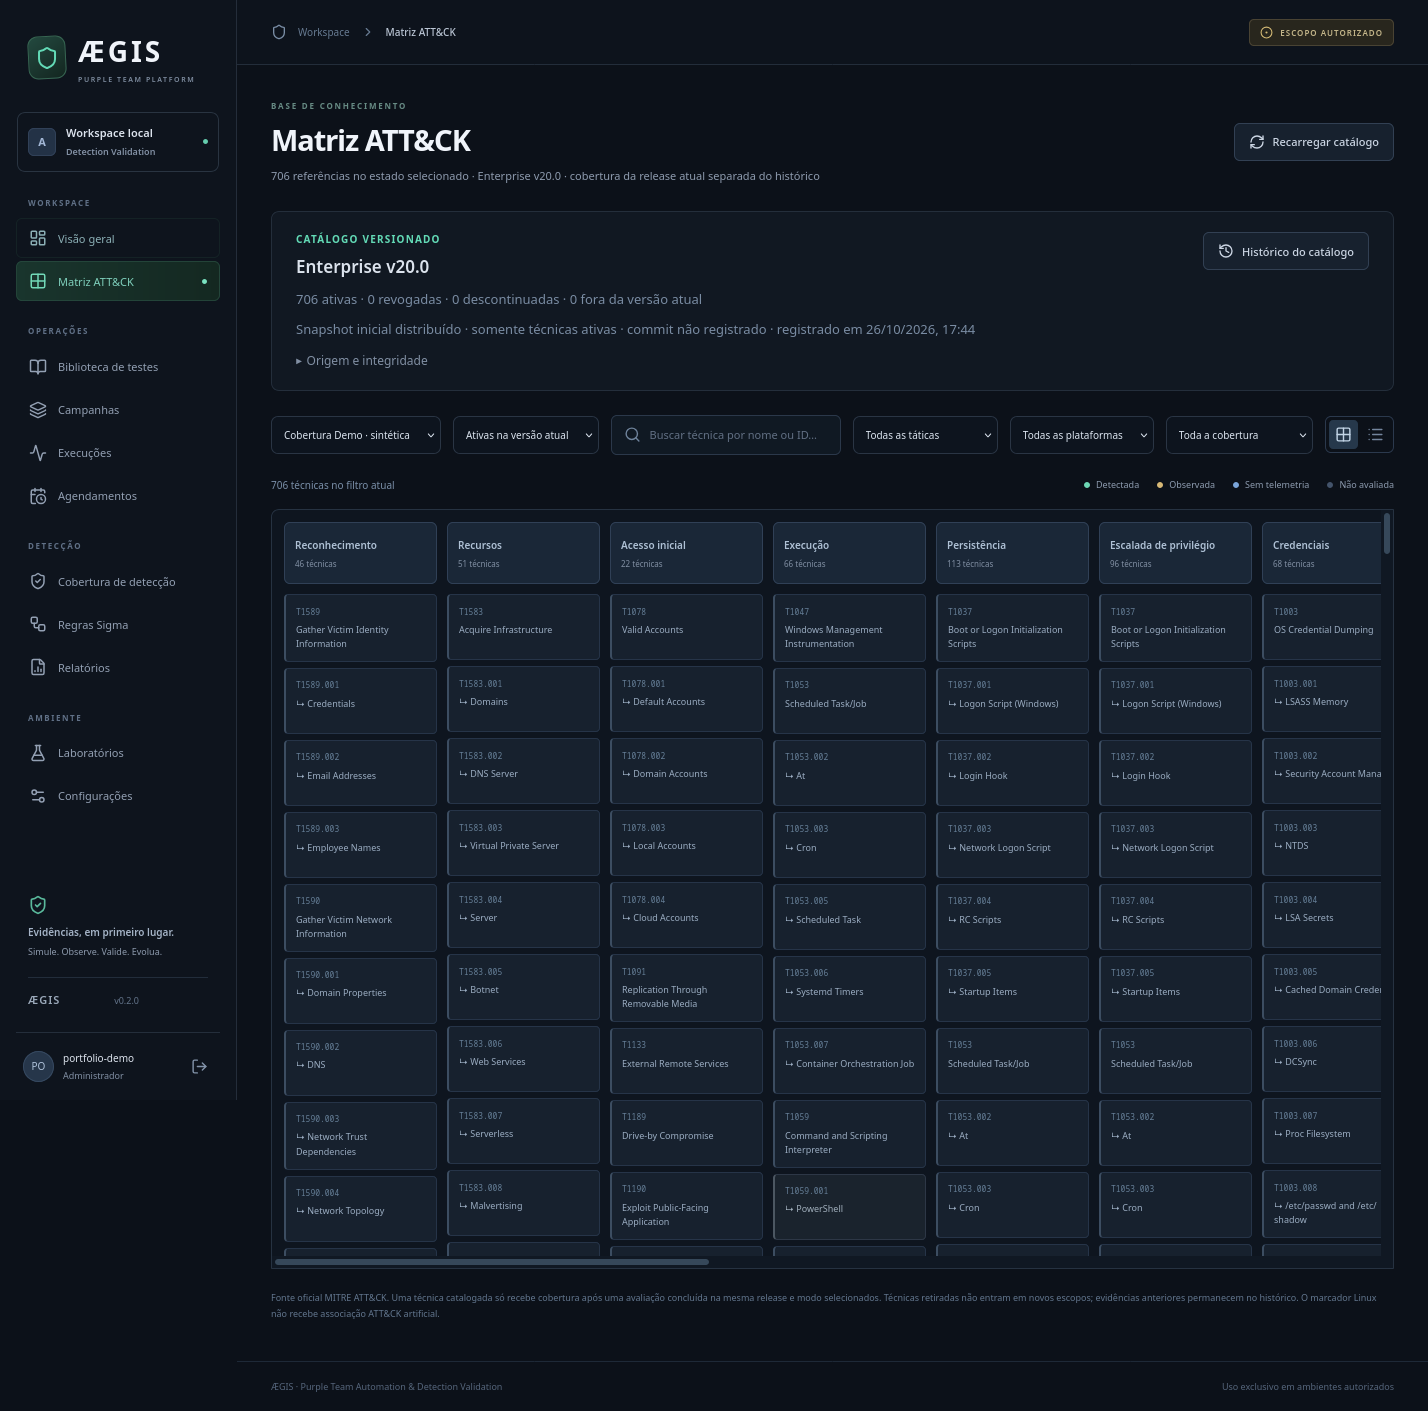
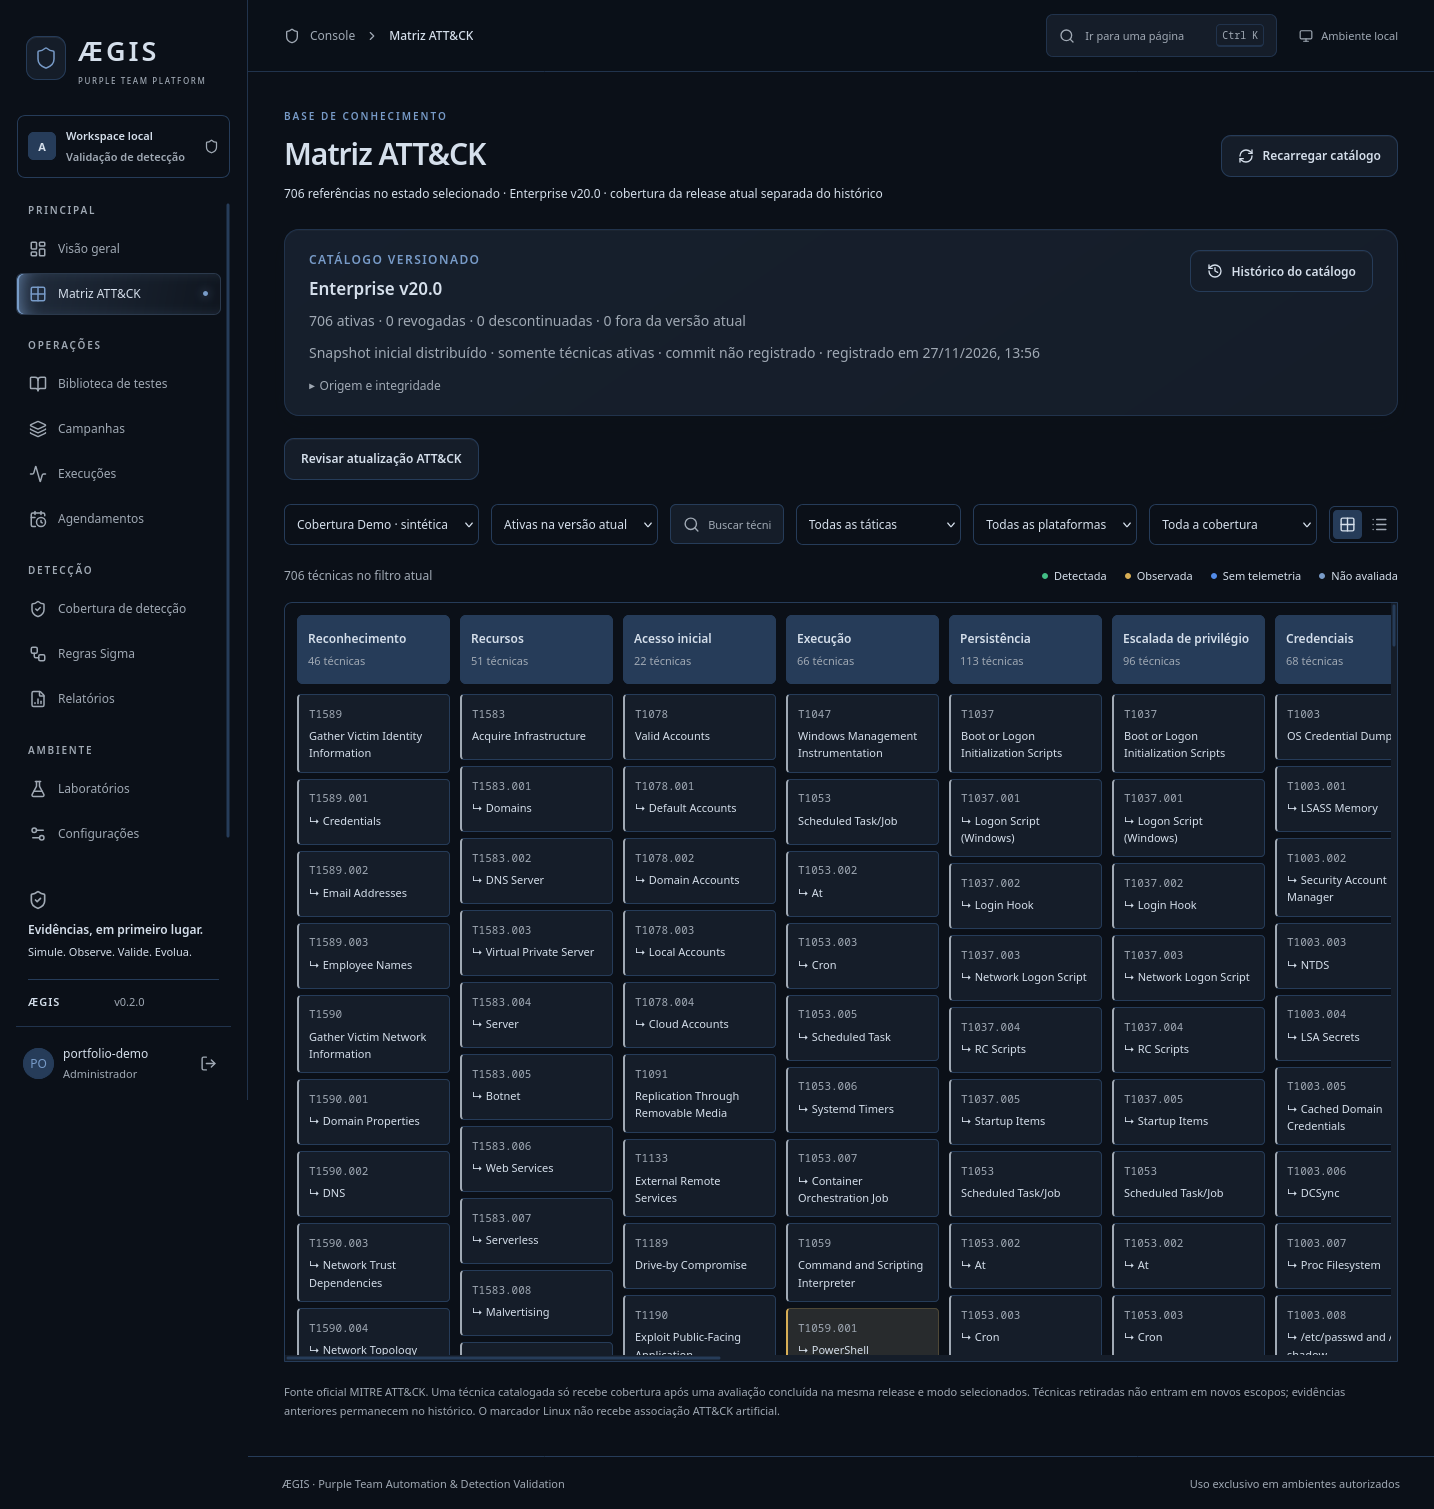
docs(ui): refresh screenshots for the current AEGIS interface
Refresh 23 current captures and the README gallery from the real Firefox Demo flow. Preserve all 16 previous images and their provenance in the archive; make capture positioning and transient notifications reliable.

Validation: 186 React tests, full Demo E2E with 5 runs and 20 synthetic tests, 5 PDF exports, 22 browser screenshots and zero JavaScript errors; staged and release checks passed.

Refs #144

diff --git a/docs/images/README.md b/docs/images/README.md
@@ -1,57 +1,87 @@
-# Galeria de capturas reais
+# Galeria da interface AEGIS
 
-Capturas da interface executável, sem mockups. Os nomes abaixo apontam para os
-arquivos originais versionados. Dados Demo vêm da API/worker/PostgreSQL reais no
-schema E2E descartável; eventos/alertas desse adaptador são **sintéticos**. Nenhuma
-imagem de Demo prova uma detecção externa.
+Capturas de 27/11/2026 com a paleta AEGIS, superfícies iluminadas, modais suaves e
+login animado. São screenshots da aplicação executável em Firefox, com API,
+worker, PostgreSQL e Redis em schema E2E descartável. Os dados e evidências do
+Demo são **sintéticos**. As imagens não contêm credenciais e não demonstram
+uma detecção externa.
 
-As 13 capturas Demo foram geradas por `scripts/e2e.py` e `apps/web/e2e.mjs` no fluxo
-Firefox de 2026-10-26: 4 runs / 16 testes sintéticos, zero erros JavaScript e viewport de 390 px
-sem overflow, incluindo o modal de transformação. A rodada atual acrescentou a
-prévia oficial de rename e preservou o relatório histórico. São 14 arquivos com a
-captura Linux anterior; nenhuma nova execução real de laboratório. A primeira
-página PDF acrescenta uma captura, totalizando15arquivos; foi atualizada em
-2026-11-09 com o resumo executivo e é rasterização de um relatório realmente
-gerado/baixado no E2E Demo, com evidências sintéticas.
-Relatórios automáticos acrescenta a captura de09/11/fonte0609ad2, total16arquivos:
-duas ocorrências aprovadas, snapshot inicial/comparativo e downloads reais, sem
-novo ensaio Linux/Wazuh. O E2E dessa extensão confirmou5runs/20testes sintéticos.
-[Política e limites da prévia](../integrations/sigma.md#prévia-de-transformação-de-campos).
+A fonte da aplicação é `606879f`, incluindo o visual de `24f87ce` e `43c5a15`.
+As capturas são reproduzidas por [e2e.py](../../scripts/e2e.py) e
+[e2e.mjs](../../apps/web/e2e.mjs). O fluxo verifica 5 runs e 20 testes sintéticos,
+5 exportações PDF, 2 relatórios automáticos e zero erros JavaScript. As 22 capturas de
+Firefox usam 1440 px no desktop e 390 px no móvel. A primeira página de um PDF
+real exportado completa o conjunto atual com 23 imagens.
+
+O [guia do frontend](../development/frontend-design.md) descreve as interações e
+a preferência de movimento reduzido. Uma imagem estática mostra um instante da
+animação: os anéis do login giram, os blocos flutuam e os cards reagem ao mouse
+na aplicação em execução.
+
+## Identidade e interação
+
+| Captura | Conteúdo |
+| --- | --- |
+| [Login](login.png) | Formulário vazio e composição decorativa animada, antes de digitar credenciais |
+| [Visão geral](overview.png) | Indicadores, histórico e distribuição dos resultados Demo |
+| [Brilho no card](overview-hover.png) | Iluminação acompanhando o cursor e elevação do card |
+| [Modal de navegação](navigation-modal.png) | Busca de páginas, cantos suaves e superfície com profundidade |
+| [Mobile](mobile.png) | Visão geral em 390 px, com dados do mesmo ciclo sintético |
+
+![Tela de acesso AEGIS com composição de órbitas](login.png)
+
+![Card iluminado pelo cursor na visão geral](overview-hover.png)
+
+![Modal de navegação com bordas suaves](navigation-modal.png)
+
+## Operações e evidências
 
 | Captura | Conteúdo e origem |
-|---|---|
-| [Overview](overview.png) | Indicadores Demo, denominadores e histórico da API |
+| --- | --- |
 | [Execução](execution.png) | Classificações sintéticas e evidências inspecionáveis |
+| [Recomendações](recommendations.png) | Análise vinculada a fatos e evidências da execução |
+| [Recomendações no celular](recommendations-mobile.png) | Mesmo percurso em 390 px |
 | [Cobertura](coverage.png) | Filtros de período/release e exportação do recorte |
-| [ATT&CK](attack.png) | Matriz de catálogo oficial, sem inferir técnicas testadas |
+| [ATT&CK](attack.png) | Matriz do catálogo oficial; catalogado não significa testado |
 | [Catálogo](attack-catalog.png) | Proveniência e histórico do snapshot inicial |
+| [Metadados Atomic](atomic-metadata.png) | Importação e revisão offline de metadados, sem execução Atomic |
+| [Atomic no celular](atomic-metadata-mobile.png) | Inspeção dos mesmos metadados em 390 px |
 | [Agendamentos](schedules.png) | Plano Demo aprovado e ocorrência emitida pelo worker |
-| [Revisões](rule-test-links.png) | Associação de versão Sigma/teste; não é implantação |
-| [Comparação](scope-comparison.png) | Diferenças de versões e vínculos registrados nos scopes |
+| [Relatórios automáticos](scheduled-reports.png) | Duas ocorrências aprovadas, snapshot inicial e comparação |
+| [Vínculos de regras](rule-test-links.png) | Associação de versão Sigma/teste; não é implantação |
+| [Comparação](scope-comparison.png) | Diferenças de versões e vínculos registrados nos escopos |
 | [Análise Sigma](sigma-analysis.png) | Achado estático parcial em regra demonstrativa |
-| [Preparação Sigma](sigma-readiness.png) | Campos candidatos com conversão explicitamente bloqueada |
-| [Prévia de campos](sigma-mapping.png) | Transformação oficial real em memória, antes/depois normalizados; nenhuma consulta SIEM gerada |
-| [Wazuh desconectado](wazuh-preparation.png) | Demo padrão sem conector; não representa o banco do ensaio Wazuh |
-| [Mobile](mobile.png) | Interface Demo em viewport móvel; screenshot pode excluir a barra de rolagem |
-| [Linux encerrado](linux-execution.png) | Captura histórica de 2026-10-21: campanha real autorizada, INCONCLUSIVE sem SIEM, recibo separado de detecção |
-| [Relatório PDF](report-pdf.png) | Primeira página do PDF de execução do E2E Firefox2026-11-09, fonte26605ff; 1 detecção em3testes válidos, com1inconclusivo fora da taxa. Documento completo13páginas/67.550bytes e aviso sintético em todas |
-| [Relatórios automáticos](scheduled-reports.png) | Plano Demo com duas ocorrências a60s, relatório inicial e comparação por grant; E2E Firefox09/11/fonte0609ad2, quatro PDFs e zeroerrosJS |
+| [Preparação Sigma](sigma-readiness.png) | Campos candidatos e condições da conversão |
+| [Prévia de campos](sigma-mapping.png) | Transformação oficial em memória, antes/depois normalizados |
+| [Consulta offline](sigma-query.png) | Consulta e procedência geradas offline; nenhuma consulta SIEM |
+| [Wazuh desconectado](wazuh-preparation.png) | Demo sem conector; não representa um ensaio Wazuh |
+| [Relatório PDF](report-pdf.png) | Primeira página do PDF atual de uma execução com 4 simulações; 1 detectado em 3 testes válidos, 1 inconclusivo fora da taxa |
 
-A imagem Linux foi capturada consultando o histórico após o único ensaio integrado,
-sem repetir o marcador. Ver [escopo e encerramento](../../labs/linux/README.md).
-O [ensaio Wazuh](../evidence/wazuh-2026-10-22/README.md) possui eventos/evidências
-registrados e não ganhou uma screenshot fictícia ou um novo efeito para ilustração.
+![Resultados de uma campanha sintética na interface atual](execution.png)
 
-![Dashboard Demo real](overview.png)
+![Filtros de cobertura com o visual atual](coverage.png)
 
-![Filtros de cobertura reais](coverage.png)
+## Capturas históricas
 
-![Prévia real de rename de campos, com conversão SIEM bloqueada](sigma-mapping.png)
+As 16 imagens anteriores foram preservadas byte a byte no
+[arquivo anterior à revisão visual](archive/pre-2026-11-27/README.md), junto à
+sua descrição original e respectivas datas. Isso inclui o PDF de 09/11 e a
+[campanha Linux encerrada de 21/10](archive/pre-2026-11-27/linux-execution.png).
+A imagem Linux também permanece no caminho histórico `linux-execution.png`.
+Não houve nova execução ou captura nativa Linux/Wazuh nesta revisão visual.
 
-![Histórico da campanha Linux encerrada](linux-execution.png)
+## Reprodução e verificação
 
-`make release-check` confere presença no índice Git e cabeçalho/dimensões PNG.
-Essa checagem não verifica pixels, procedência ou ausência de informação sensível;
-revisão humana e evidências do fluxo continuam necessárias. Não exponha capturas
-com dados empresariais ou segredos. Para regenerar Demo use `make e2e`; ensaios
-reais Linux/Wazuh exigem autorização específica própria.
+`make e2e` usa schema próprio e atualiza as capturas da interface; o diretório pode
+ser alterado com `AEGIS_E2E_SCREENSHOTS`. O fluxo fotografa o login antes do
+preenchimento, registra o hover e o modal e mantém todos os testes anteriores.
+Antes de fotografar páginas longas, o helper aguarda as requisições pendentes,
+retorna ao topo e sincroniza a pintura do navegador, preservando o posicionamento
+do menu e do cabeçalho fixos. Notificações temporárias são dispensadas sem manter
+referências a elementos que podem desaparecer durante a captura.
+O PDF é rasterizado a partir do arquivo realmente exportado pelo E2E; ele tem
+formatação própria, independente do CSS da aplicação.
+
+`make release-check` confere os links locais e os cabeçalhos/dimensões PNG do
+índice Git. Essa checagem não substitui inspeção visual ou comprovação da origem.
+Credenciais, logs e PDFs de teste permanecem em `.local`, fora do repositório.

diff --git a/docs/images/archive/pre-2026-11-27/README.md b/docs/images/archive/pre-2026-11-27/README.md
@@ -1,0 +1,57 @@
+# Galeria de capturas reais
+
+Capturas da interface executável, sem mockups. Os nomes abaixo apontam para os
+arquivos originais versionados. Dados Demo vêm da API/worker/PostgreSQL reais no
+schema E2E descartável; eventos/alertas desse adaptador são **sintéticos**. Nenhuma
+imagem de Demo prova uma detecção externa.
+
+As 13 capturas Demo foram geradas por `scripts/e2e.py` e `apps/web/e2e.mjs` no fluxo
+Firefox de 2026-10-26: 4 runs / 16 testes sintéticos, zero erros JavaScript e viewport de 390 px
+sem overflow, incluindo o modal de transformação. A rodada atual acrescentou a
+prévia oficial de rename e preservou o relatório histórico. São 14 arquivos com a
+captura Linux anterior; nenhuma nova execução real de laboratório. A primeira
+página PDF acrescenta uma captura, totalizando15arquivos; foi atualizada em
+2026-11-09 com o resumo executivo e é rasterização de um relatório realmente
+gerado/baixado no E2E Demo, com evidências sintéticas.
+Relatórios automáticos acrescenta a captura de09/11/fonte0609ad2, total16arquivos:
+duas ocorrências aprovadas, snapshot inicial/comparativo e downloads reais, sem
+novo ensaio Linux/Wazuh. O E2E dessa extensão confirmou5runs/20testes sintéticos.
+[Política e limites da prévia](../../../integrations/sigma.md#prévia-de-transformação-de-campos).
+
+| Captura | Conteúdo e origem |
+|---|---|
+| [Overview](overview.png) | Indicadores Demo, denominadores e histórico da API |
+| [Execução](execution.png) | Classificações sintéticas e evidências inspecionáveis |
+| [Cobertura](coverage.png) | Filtros de período/release e exportação do recorte |
+| [ATT&CK](attack.png) | Matriz de catálogo oficial, sem inferir técnicas testadas |
+| [Catálogo](attack-catalog.png) | Proveniência e histórico do snapshot inicial |
+| [Agendamentos](schedules.png) | Plano Demo aprovado e ocorrência emitida pelo worker |
+| [Revisões](rule-test-links.png) | Associação de versão Sigma/teste; não é implantação |
+| [Comparação](scope-comparison.png) | Diferenças de versões e vínculos registrados nos scopes |
+| [Análise Sigma](sigma-analysis.png) | Achado estático parcial em regra demonstrativa |
+| [Preparação Sigma](sigma-readiness.png) | Campos candidatos com conversão explicitamente bloqueada |
+| [Prévia de campos](sigma-mapping.png) | Transformação oficial real em memória, antes/depois normalizados; nenhuma consulta SIEM gerada |
+| [Wazuh desconectado](wazuh-preparation.png) | Demo padrão sem conector; não representa o banco do ensaio Wazuh |
+| [Mobile](mobile.png) | Interface Demo em viewport móvel; screenshot pode excluir a barra de rolagem |
+| [Linux encerrado](linux-execution.png) | Captura histórica de 2026-10-21: campanha real autorizada, INCONCLUSIVE sem SIEM, recibo separado de detecção |
+| [Relatório PDF](report-pdf.png) | Primeira página do PDF de execução do E2E Firefox2026-11-09, fonte26605ff; 1 detecção em3testes válidos, com1inconclusivo fora da taxa. Documento completo13páginas/67.550bytes e aviso sintético em todas |
+| [Relatórios automáticos](scheduled-reports.png) | Plano Demo com duas ocorrências a60s, relatório inicial e comparação por grant; E2E Firefox09/11/fonte0609ad2, quatro PDFs e zeroerrosJS |
+
+A imagem Linux foi capturada consultando o histórico após o único ensaio integrado,
+sem repetir o marcador. Ver [escopo e encerramento](../../../../labs/linux/README.md).
+O [ensaio Wazuh](../../../evidence/wazuh-2026-10-22/README.md) possui eventos/evidências
+registrados e não ganhou uma screenshot fictícia ou um novo efeito para ilustração.
+
+![Dashboard Demo real](overview.png)
+
+![Filtros de cobertura reais](coverage.png)
+
+![Prévia real de rename de campos, com conversão SIEM bloqueada](sigma-mapping.png)
+
+![Histórico da campanha Linux encerrada](linux-execution.png)
+
+`make release-check` confere presença no índice Git e cabeçalho/dimensões PNG.
+Essa checagem não verifica pixels, procedência ou ausência de informação sensível;
+revisão humana e evidências do fluxo continuam necessárias. Não exponha capturas
+com dados empresariais ou segredos. Para regenerar Demo use `make e2e`; ensaios
+reais Linux/Wazuh exigem autorização específica própria.

diff --git a/README.md b/README.md
@@ -23,6 +23,16 @@ necessário; cada issue delimita a entrega, subissues, dependências e aceite.
 
 ![Dashboard real do Demo, com dados sintéticos identificados](docs/images/overview.png)
 
+## Interface
+
+O workspace usa a paleta AEGIS, cards com iluminação ao passar o mouse, modais
+com bordas suaves e uma composição animada no login. O movimento respeita a
+preferência de acessibilidade do sistema.
+
+![Tela de acesso com o novo visual AEGIS](docs/images/login.png)
+
+[Veja o hover, os modais e as telas atualizadas na galeria](docs/images/README.md).
+
 ## Executar localmente
 
 Ambiente validado: Linux x86_64, Docker Engine com Compose, Make, Git e Python 3.13.
